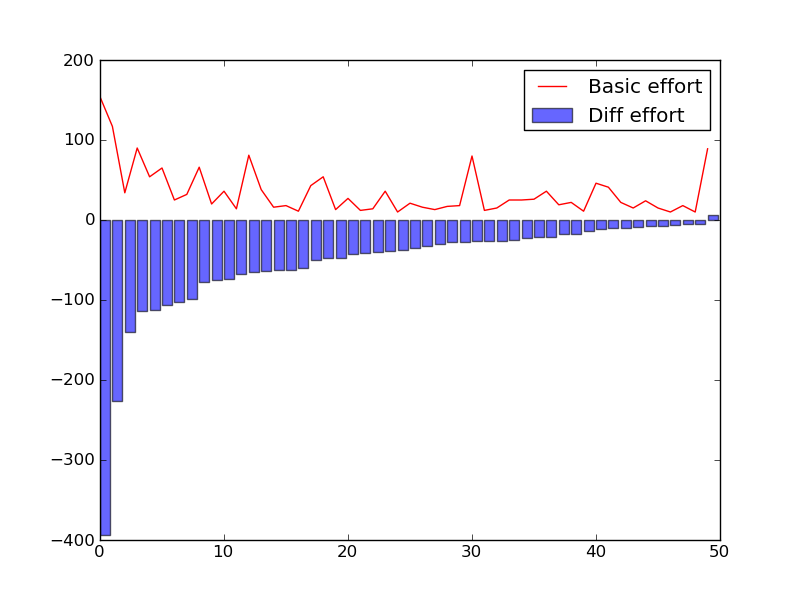
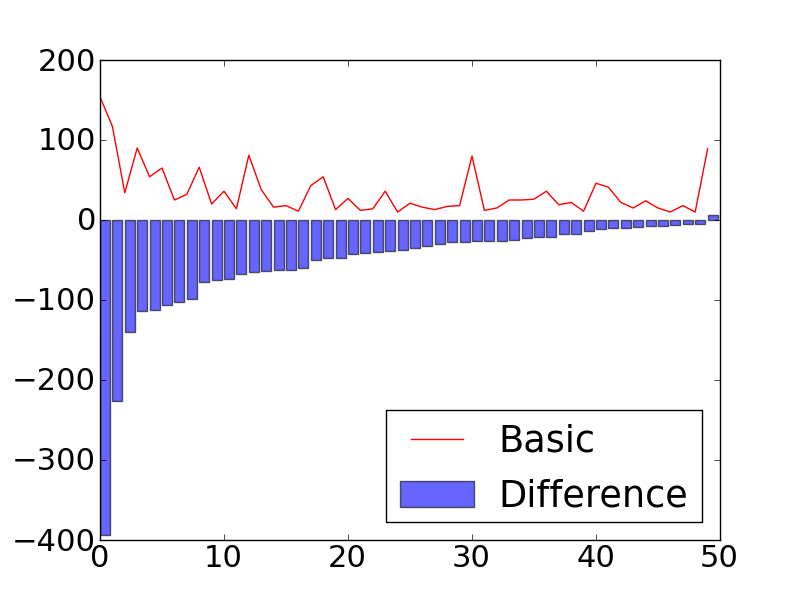
gain-based simulation code

diff --git a/scripts/simulate_gain.py b/scripts/simulate_gain.py
@@ -1,5 +1,7 @@
 """
-User effort best cases in terms of moves
+This is a copy of the simulate.py file with modification.
+simulate.py compute simluated user effort for a search task, e.g., to find K relevant documents.
+simulate_gain.py compute simulated user gain for a fixed number of user moves. 
 """
 from trec_eval import trec_util, NDCG
 import itertools
@@ -16,15 +18,15 @@ categoryfile = '../data/official-resources-FW13-categorization.tsv'
 
 def generate_parameters():
 	if P.interface == 'basic':
-		params = ['index', 'page_size', 'gain_type', 'e_model', 'task_length']
-		p = itertools.product(P.page_size, P.gain_model_type, P.e_model_type, P.task_length)
+		params = ['index', 'page_size', 'gain_type', 'e_model', 'task_length', 'moves']
+		p = itertools.product(P.page_size, P.gain_model_type, P.e_model_type, P.task_length, P.moves)
 		p = list(p)
 	else:
 		params = ['index', 'page_size', 'gain_type', 'ndcg_k','e_model',
 		'task_length', 'f_model', 'f_prior',
-		'e_lambda'	
+		'e_lambda', 'moves',
 			]
-		p = itertools.product(P.page_size, P.gain_model_type, P.ndcg_k, P.e_model_type, P.task_length, P.f_model_type, P.f_prior, P.e_lambda)
+		p = itertools.product(P.page_size, P.gain_model_type, P.ndcg_k, P.e_model_type, P.task_length, P.f_model_type, P.f_prior, P.e_lambda, P.moves)
 		p = list(p)
 	pa = [[i, list(p[i])] for i in range(len(p))]
 	return pa, params
@@ -85,17 +87,23 @@ def create_sublists(docs, judge):
 	return sublists, B, G		
 
 """
-simulate interaction with basic interface  
+simulate interaction with basic interface
+In fact, for basic interface, the gain based measure is equivelent to P@K, 
+we don't really need to run it.
 """	
-def simulate_basic(judged_list, page_size, task_length):
+def simulate_basic(judged_list, page_size, moves):
 	action_list = []
 	rel_count = 0
 	doc_count = 0
 	total_doc = len(judged_list)
 
 	while doc_count < total_doc: 
-		if rel_count >= task_length:
-			break	
+		#if rel_count >= task_length:
+		#	break	
+		# Instead of looking at task_length, look at maximum number of moves
+		if moves > 0 and len(action_list) >= moves:
+			break;
+
 		if not doc_count == 0 and doc_count%page_size == 0:
 			action_list.append('pagination')
 		action_list.append(('examine', 'dummy'))
@@ -107,7 +115,7 @@ def simulate_basic(judged_list, page_size, task_length):
 """
 params: 'page_size', 'gain_type', 'ndcg_k', 'e_model', 
 	'task_length', 'f_model', 'f_prior',
-	'e_lambda'	
+	'e_lambda', 'moves'	
 """
 def simulate(run, judged_list, param):
 	action_lists = []
@@ -124,6 +132,8 @@ def simulate(run, judged_list, param):
 			judge = [int(j>0) for j in judge] 
 
 		# basic params are different
+		# We don't really need to run basic interface simulation for gain based measure
+		# as it is equivelent as P@K.
 		if P.interface == 'basic':
 			task_length = param[3]
 			if task_length == -1:
@@ -132,7 +142,7 @@ def simulate(run, judged_list, param):
 			actionlist = simulate_basic(judge, page_size, task_length)
 			action_lists.append((qid, actionlist))
 		else:
-
+			# task_length is now a dummy parameter
 			task_length = param[4]
 			if task_length == -1:
 				task_length = sum(judge)
@@ -151,8 +161,10 @@ def simulate(run, judged_list, param):
 				#print prior
 				p = param[6](prior) 
 			f = FilterModel.FilterModel(sublists, p, model_type=param[5])
+			# The extra parameter of maximum number of moves
+			moves = param[8]
 			inter = Interaction.Interaction(e, f, task_length=task_length)	
-			inter.run()
+			inter.run_gain(moves)
 			action_lists.append((qid, inter.action_list))
 	return action_lists
 
@@ -161,13 +173,13 @@ def simulate(run, judged_list, param):
 categories = load_categories(categoryfile)
 
 
-
 # I don't remember why we provide an extra qrels option. It seems to be
 # for alternaltive qrels, but I don't remember why. 
 # Possbilities are: duplicates, binary/graded
 # The run we used is a run after duplicate removal, so duplicates don't apply
 # The binary/graded options are processed during simulation.
 # so I don't know what this option is for.
+
 if __name__ == '__main__':
 	if len(sys.argv)<3:
 		print 'usage: python simulate.py outputdir runs(number of simulations) qrels'
@@ -186,6 +198,7 @@ if __name__ == '__main__':
 	qrels = trec_util.load_qrels(qrelsfile)
 	judged_list = trec_util.judged_ranklist(run, qrels)
 	params, paramnames = generate_parameters()
+
 	# Write the parameters
 	outp = open(output_param_file, 'w')
 	# write the header
@@ -217,10 +230,12 @@ if __name__ == '__main__':
 			for action_list in action_lists:
 				qid = action_list[0]
 				actions = action_list[1]
-				a = [aa[0] for aa in actions]
-				# we use default effort setting
-				ef = EffortModel.EffortModel()
-				score = ef.compute_effort(a)	
+				# Get documents that were examined.
+				# Each action has a "visited doc", but we only need the examined ones 
+				# to determine uesr gain 
+				examined_judge = [a[1][-1][-1] for a in itertools.ifilter(lambda x: x[0] == 'examine', actions)]
+				# Compute gain
+				score = sum(examined_judge)
 				#print a, score
 				scores.append(score)
 			line = ' '.join(['%s'%s for s in scores])

diff --git a/scripts/user_model/Interaction.py b/scripts/user_model/Interaction.py
@@ -47,7 +47,7 @@ class Interaction:
 		# the current list the user is at
 		self.current_visit = start 
 
-	# Start a simulation
+	# Start a simulation that is effort based
 	def run(self):
 		# Only stop when all documents being examined, or K document has been found   
 		while not sum([x+1 for x in self.last_visit]) >= self.doc_count:	
@@ -157,6 +157,88 @@ class Interaction:
 		else:	
 			return False
 
+	# Start a simulation that is gain based instead of effort based
+	# Note: here the user stops when the maximum number of moves is reached. 
+	# We assume after the maximum number of moves users do not feel like spending any energy
+	# anymore. It may not be reasonable, as after filtering/pagination, usually users would at
+	# least have a glance of the results. We could assume this effort is counted together with 
+	# the filter/pagination action.
+	#
+	# Parameters:
+	# moves: the total number of moves that the user would do
+	def run_gain(self, moves):
+		# Only stop when all documents being examined, or total moves have been reached  
+		while not sum([x+1 for x in self.last_visit]) >= self.doc_count:
+			# Check if move limit is reached
+			# If the user will go through all docs (moves = -1), then this condition
+			# will never be triggered.
+			if moves > 0 and len(self.action_list) >= moves:
+				break
+
+			# Now we are at a new doc, decide if examine another document
+			if not self.examine_next():
+				# If not, first do filtering
+				listid = self.choose_list()
+				# If no list is selected, then 
+				if listid == -1:
+					#print sum([s[2] for s in self.resultlist[0]])
+					#print 'task_length', self.K, 'found:', self.rel_count, 
+					#print 'Error: Something wrong, debug:', #self.doc_seen 
+					continue
+				# then set the current visit to the next doc in the list
+				# Note: if a list is exhausted, it won't be selected 
+				self.current_visit = [listid, self.last_visit[listid]+1]
+				# After filtering, we now decide to visit this doc
+				#print self.current_visit
+				#print [len(r) for r in self.resultlist]
+				doc = self.resultlist[self.current_visit[0]][self.current_visit[1]]
+				# Add the current action and visited document	
+				self.action_list.append(('filter', (self.current_visit[0], self.current_visit[1], doc)))
+				# Now check again if the maximum move has reached
+				if moves > 0 and len(self.action_list) >= moves:
+					break
+
+			# Now we have to examine next doc, but first check if it's seen already, if so, skip it
+			if self.doc_is_seen():			
+				# set the last current_visit to last visited 
+				self.last_visit[self.current_visit[0]] = self.current_visit[1]
+				# move current_visit to next doc, prepare next iteration 
+				self.current_visit[1] = self.current_visit[1] + 1
+			#	print 'doc seen'
+				continue
+			
+			#print self.current_visit
+			# Now whether it's coming from a filter or that we've decided to 
+			# examine the next doc, we will examine it		 
+			#print 'examine next', self.current_visit
+			# If the doc is in a next page, first add pagination
+			if self.current_visit[1]>0 and self.current_visit[1]%self.page_size == 0:
+				doc = self.resultlist[self.current_visit[0]][self.current_visit[1]]
+				self.action_list.append(('pagination', (self.current_visit[0], self.current_visit[1], doc)))
+				# Now check again if the maximum move has reached
+				if moves > 0 and len(self.action_list) >= moves:
+					break
+
+			# Then examine doc 
+			self.examine_doc()
+			doc = self.resultlist[self.current_visit[0]][self.current_visit[1]]
+			self.action_list.append(('examine', (self.current_visit[0], self.current_visit[1], doc)))
+			# Now check again if the maximum move has reached
+			if moves > 0 and len(self.action_list) >= moves:
+				break
+
+			# If FilterModel is dynamic, then update the model after examine
+			#print self.F.model_type
+			if self.F.model_type == 'dynamic':
+				self.F.update_prior(self.current_visit)
+
+			# After examine
+			# add this position to last visit
+			self.last_visit[self.current_visit[0]] = self.current_visit[1]
+
+			# move current_visit to the next doc in the current list
+			self.current_visit[1] = self.current_visit[1] + 1 	
+
 
 
 
@@ -172,8 +254,9 @@ if __name__ == '__main__':
 	task_length=2
 	print resultlist
 	inter = Interaction(e, f, task_length=task_length)	
-	inter.run()
+	inter.run_gain(5)
 	print inter.action_list
+	print len(inter.action_list)
 
 
 

diff --git a/scripts/user_model/Parameters.py b/scripts/user_model/Parameters.py
@@ -5,21 +5,29 @@ Set the parameters for simulation
 # ===== Parameters for ExamineModel =====
 e_model_type = ['ExpRank']
 #e_lambda = [1, 0.1, 0.01, 0.001] 
-#e_lambda = [1, 0.5, 0.1, 0.05, 0.01, 0.005, 0.001, 0.0005]
-e_lambda = [0.01]
+
+# WE use the following e_lambdas for RQ1 (influence of user patience and accuracy)
+# figure 4: Influence of user patience and their accuracy in choosing result lists.
+e_lambda = [1, 0.5, 0.1, 0.05, 0.01, 0.005, 0.001, 0.0005]
+
+# We use 0.01 for RQ2 (comparing systems), figure 5: When does RLR interface help?
+# e_lambda = [0.01]
 
 # ===== Parameters for FilterModel ======
 uniform = lambda x: [1 for i in range(len(x))]
 ndcg = lambda x: x
 user = lambda x: x
+# Option user is used when user data is used to compute the parameters.
 #f_prior = [None, ndcg, user]
 f_prior = [None, ndcg]
 
+# We decided to leave out option dynamic for all experiments.
 #f_model_type = ['static', 'dynamic']
 f_model_type = ['static']
 
 
 # ndcg@k as prior, -1 for all
+# I believe we left out other options.
 ndcg_k = [-1]
 
 # ===== Parameters for GainModel =====
@@ -32,7 +40,20 @@ page_size = [10]
 
 # ===== Task parameters =====
 # Number of relevant documents to be found: -1: all
-task_length = [1, 10, -1] 
+#task_length = [1, 10, -1] 
+
+# For gain based experiment, this parameter does not make a difference.
+task_length = [-1]
+
+
+# ========== Gain parameter =======
+# This is a parameter specific to gain based experiments
+# Set the maximum number of moves a user will make
+# -1 means the user will go through all documents.
+moves = [1, 10, 50]
+
+
+# Our user experiment was using task_length=10
 #task_length = [10]
 
 interface = 'category' 

diff --git a/scripts/analysis_0514/query_analysis.py b/scripts/analysis_0514/query_analysis.py
@@ -20,6 +20,7 @@ outputdir = 'plots/'
 
 #rc('font',**{'family':'sans-serif','sans-serif':['Helvetica']})
 #rc('text', usetex=True)
+rc('font', **{'size': 22})
 
 # load data
 def load_data(facet_dir, basic_dir):
@@ -52,10 +53,15 @@ def perquery_compare(pa_facet, data_facet, pa_basic, data_basic, user_type):
 
 	pylab.figure()
 	# make bar plot
-	pylab.bar(X, Y1, alpha=0.6, color='b', label='Diff effort')		
+	pylab.bar(X, Y1, alpha=0.6, color='b', label='Difference')		
 	# plot basic effort on top
-        pylab.plot(X, Y2, color='r', label='Basic effort')      
-	pylab.legend() 
+        pylab.plot(X, Y2, color='r', label='Basic')
+
+        if abs(Y1[0]) < max(Y1[-1], max(Y2)):
+	    pylab.legend(loc=2) 
+        else:
+            pylab.legend(loc=4)
+
 	# Save plot
         outfile = '%s/%s_%s.png'%(outputdir, task, user_type)
         pylab.savefig(outfile)
@@ -63,6 +69,8 @@ def perquery_compare(pa_facet, data_facet, pa_basic, data_basic, user_type):
 	# Correlation analysis
         r, p = stats.pearsonr(Y1, Y2)
         print 'task type: %s, user type: %s, r:%s, p-value:%s'%(task, user_type, r, p)
+
+    pylab.show()
 
 if __name__ == '__main__':
     pa_facet, data_facet, pa_basic, data_basic = load_data(facet_dir, basic_dir)
